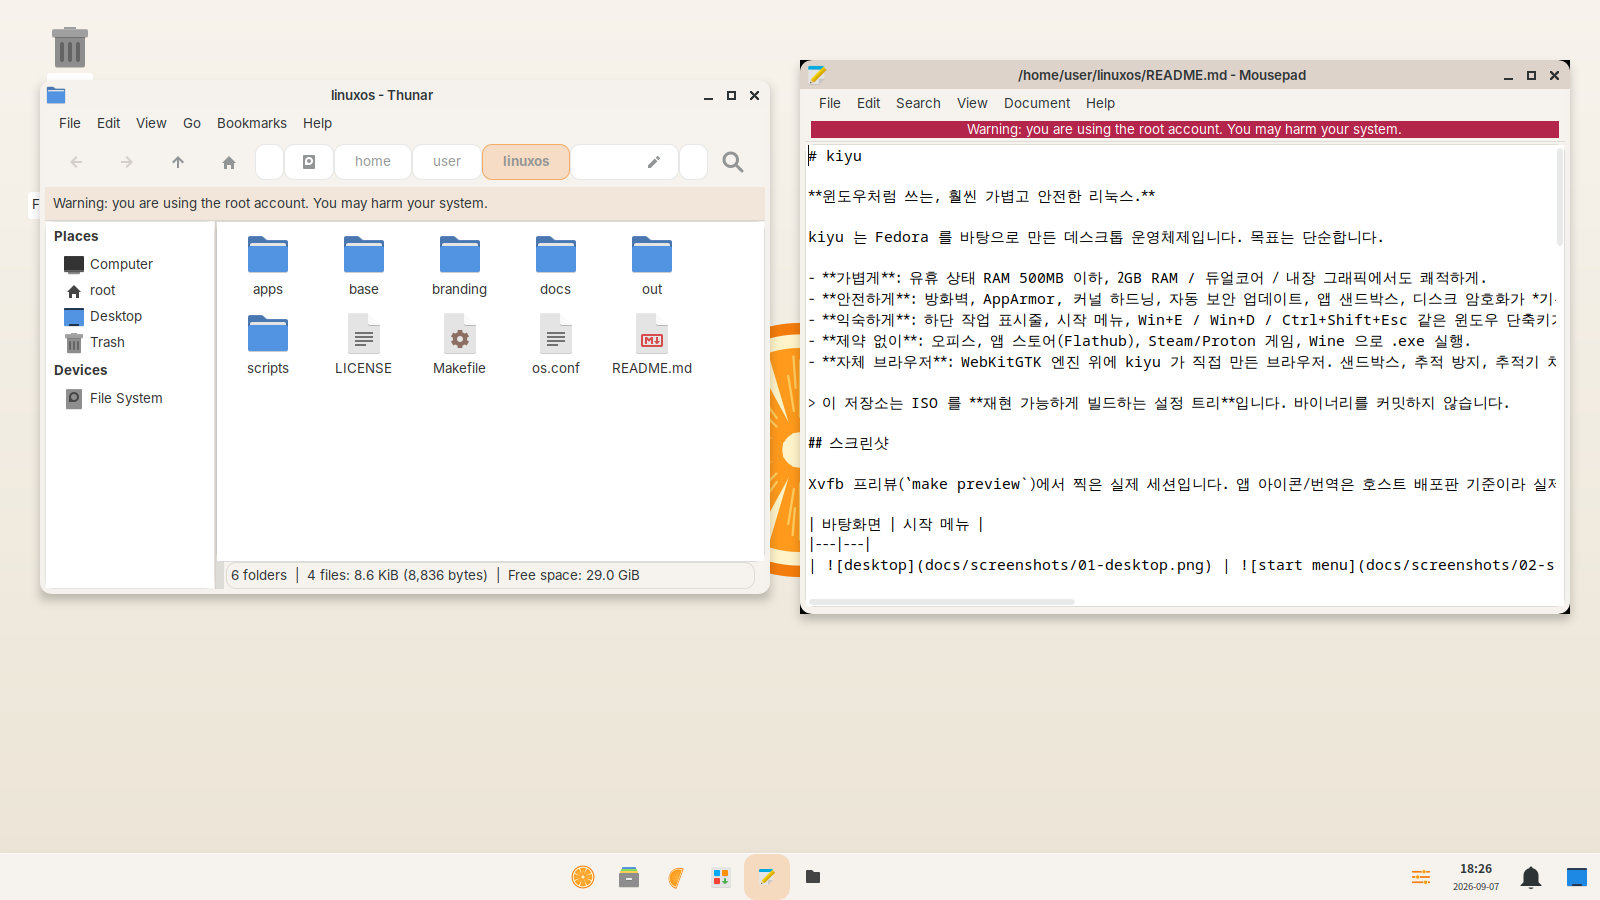
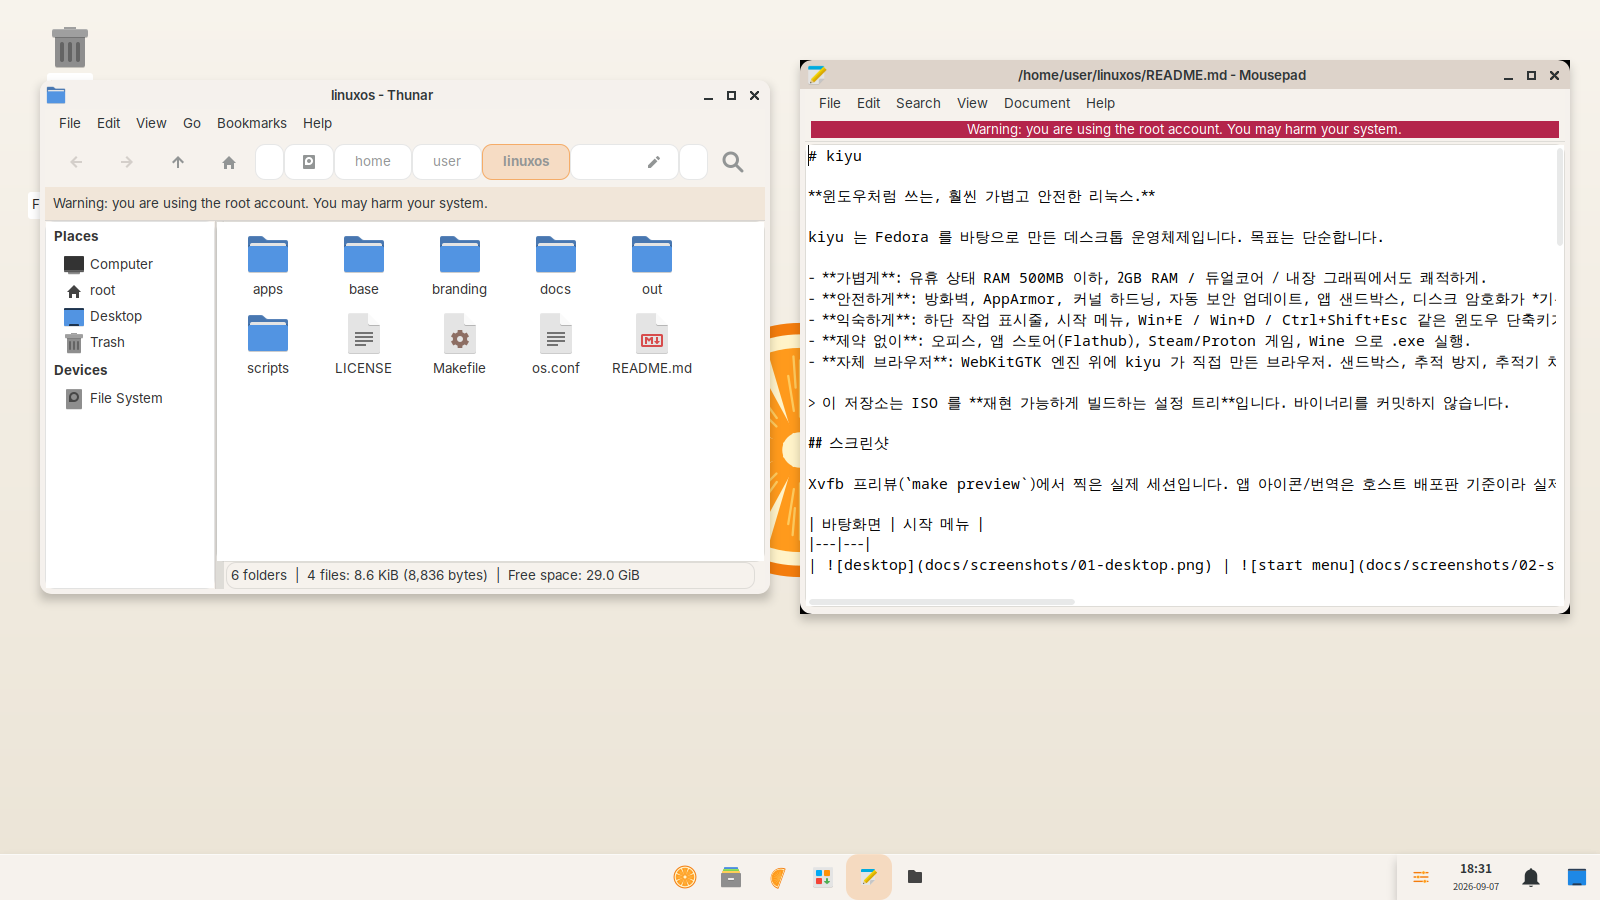
작업표시줄 아이콘을 화면 중심에 정확히: 전체 폭 패널 + 투명한 오른쪽 패널 겹침
panel-1(전체 폭)에는 [확장 구분선][시작][docklike][확장 구분선]만 두어 대칭으로
가운데를 잡고, 오른쪽 묶음은 배경이 투명한 panel-2 로 그 위에 겹친다.
프리뷰 측정: 아이콘 묶음 중심 798px / 화면 중심 800px. 배경색은 xfconf
rgba 로 돌아가고 다크 모드 스크립트가 panel-1 색을 바꾼다. 프리뷰 스크립트의
docklike 대체 치환이 panels 배열을 건드리던 문제도 고침.

Claude-Session: https://claude.ai/code/session_01DVt4fBqjhd9ckGmgeBjH8k

Changed region(s): [[0.3438, 0.9333, 0.5938, 1.0], [0.875, 0.9644, 0.9062, 0.9956]]

diff --git a/base/fedora/root/etc/skel/.config/gtk-3.0/gtk.css b/base/fedora/root/etc/skel/.config/gtk-3.0/gtk.css
@@ -62,7 +62,7 @@ XfdesktopIconView.view:selected, .XfdesktopIconView.view:selected, XfdesktopIcon
     color: #ffffff; background-color: alpha(@kiyu_accent, 0.85); border-radius: 8px; text-shadow: none; }
 
 /* 작업표시줄: 바닥 전체 폭 한 줄 (윈도우 11 식), 아이콘은 가운데. 블러 없는 반투명 */
-.xfce4-panel { background-color: alpha(@theme_bg_color, 0.92); border-top: 1px solid alpha(@theme_base_color, 0.7); border-radius: 0; padding: 2px 6px; color: @kiyu_text; }
+.xfce4-panel { border-top: 1px solid alpha(@theme_base_color, 0.6); border-radius: 0; padding: 2px 6px; color: @kiyu_text; }  /* 배경색은 xfconf background-rgba */
 .xfce4-panel button, .xfce4-panel button.flat, .xfce4-panel button.toggle { border-radius: 12px; border: 1px solid transparent; background-color: transparent; background-image: none; box-shadow: none; padding: 4px 8px; }
 .xfce4-panel button:hover { background-color: alpha(@kiyu_accent, 0.12); }
 .xfce4-panel button:checked, .xfce4-panel button:active { background-color: alpha(@kiyu_accent, 0.20); }

diff --git a/docs/architecture.md b/docs/architecture.md
@@ -68,10 +68,10 @@ Recommends 를 끄고 빌드하므로(`--apt-recommends false`) 이미지가 작
 ### 5b. 룩앤필: 사양을 먹지 않는 "트렌디"
 
 - **배경**: 크림 종이 위 귤 단면 로고 하나 (정적 PNG, 비용 0). 파스텔 언덕 버전은 `branding/wallpaper-dawn.svg` 로 보관.
-- **작업표시줄**: 바닥 전체 폭 한 줄 (윈도우 11 식). 양쪽 확장 구분선 사이에 [시작][고정 앱 + 실행 중 창 (docklike)]을 두어
-  가운데 정렬하고, 오른쪽에 [트레이][빠른 설정][시계][알림][바탕화면 보기]. 오른쪽 묶음 폭만큼 가운데 묶음이 왼쪽으로
-  조금 치우친다 (xfce4-panel 에는 화면 중심 정렬 옵션이 없다).
-  배경은 xfconf 가 아니라 `~/.config/gtk-3.0/gtk.css` 의 `.xfce4-panel` 이 그려서 테마 색(다크 모드)을 따라간다.
+- **작업표시줄**: 바닥 전체 폭 한 줄 (윈도우 11 식). xfce4-panel 에는 화면 중심 정렬 옵션이 없어 패널 두 개를 겹친다:
+  panel-1(전체 폭)은 양쪽 확장 구분선 사이에 [시작][고정 앱 + 실행 중 창 (docklike)]만 두어 대칭으로 정확히 가운데,
+  panel-2(오른쪽 아래, 배경 투명)가 그 위에 [트레이][빠른 설정][시계][알림][바탕화면 보기]를 얹는다.
+  두 패널이 같은 46px 을 예약하므로 창 배치엔 영향이 없다. 배경색은 xfconf background-rgba 이고 다크 모드 스크립트가 panel-1 을 바꾼다.
 - **창**: xfwm4 자체 컴포지팅 대신 picom(xrender) — 둥근 모서리 12px, 부드러운 그림자, 짧은 페이드. CPU 1~3%.
   유리 블러(glx, dual_kawase)는 GPU 없는 기기에서 비싸므로 기본 OFF, 빠른 설정 "효과" 스위치로 켠다 (`/usr/lib/kiyu/compositor`).
 - **빠른 설정** (`apps/kiyu-control`): Wi-Fi/블루투스/다크 모드/효과 토글, 소리·밝기, 배터리. 상주하지 않는 Python GTK 창(열려 있을 때만 ~20 MB).
